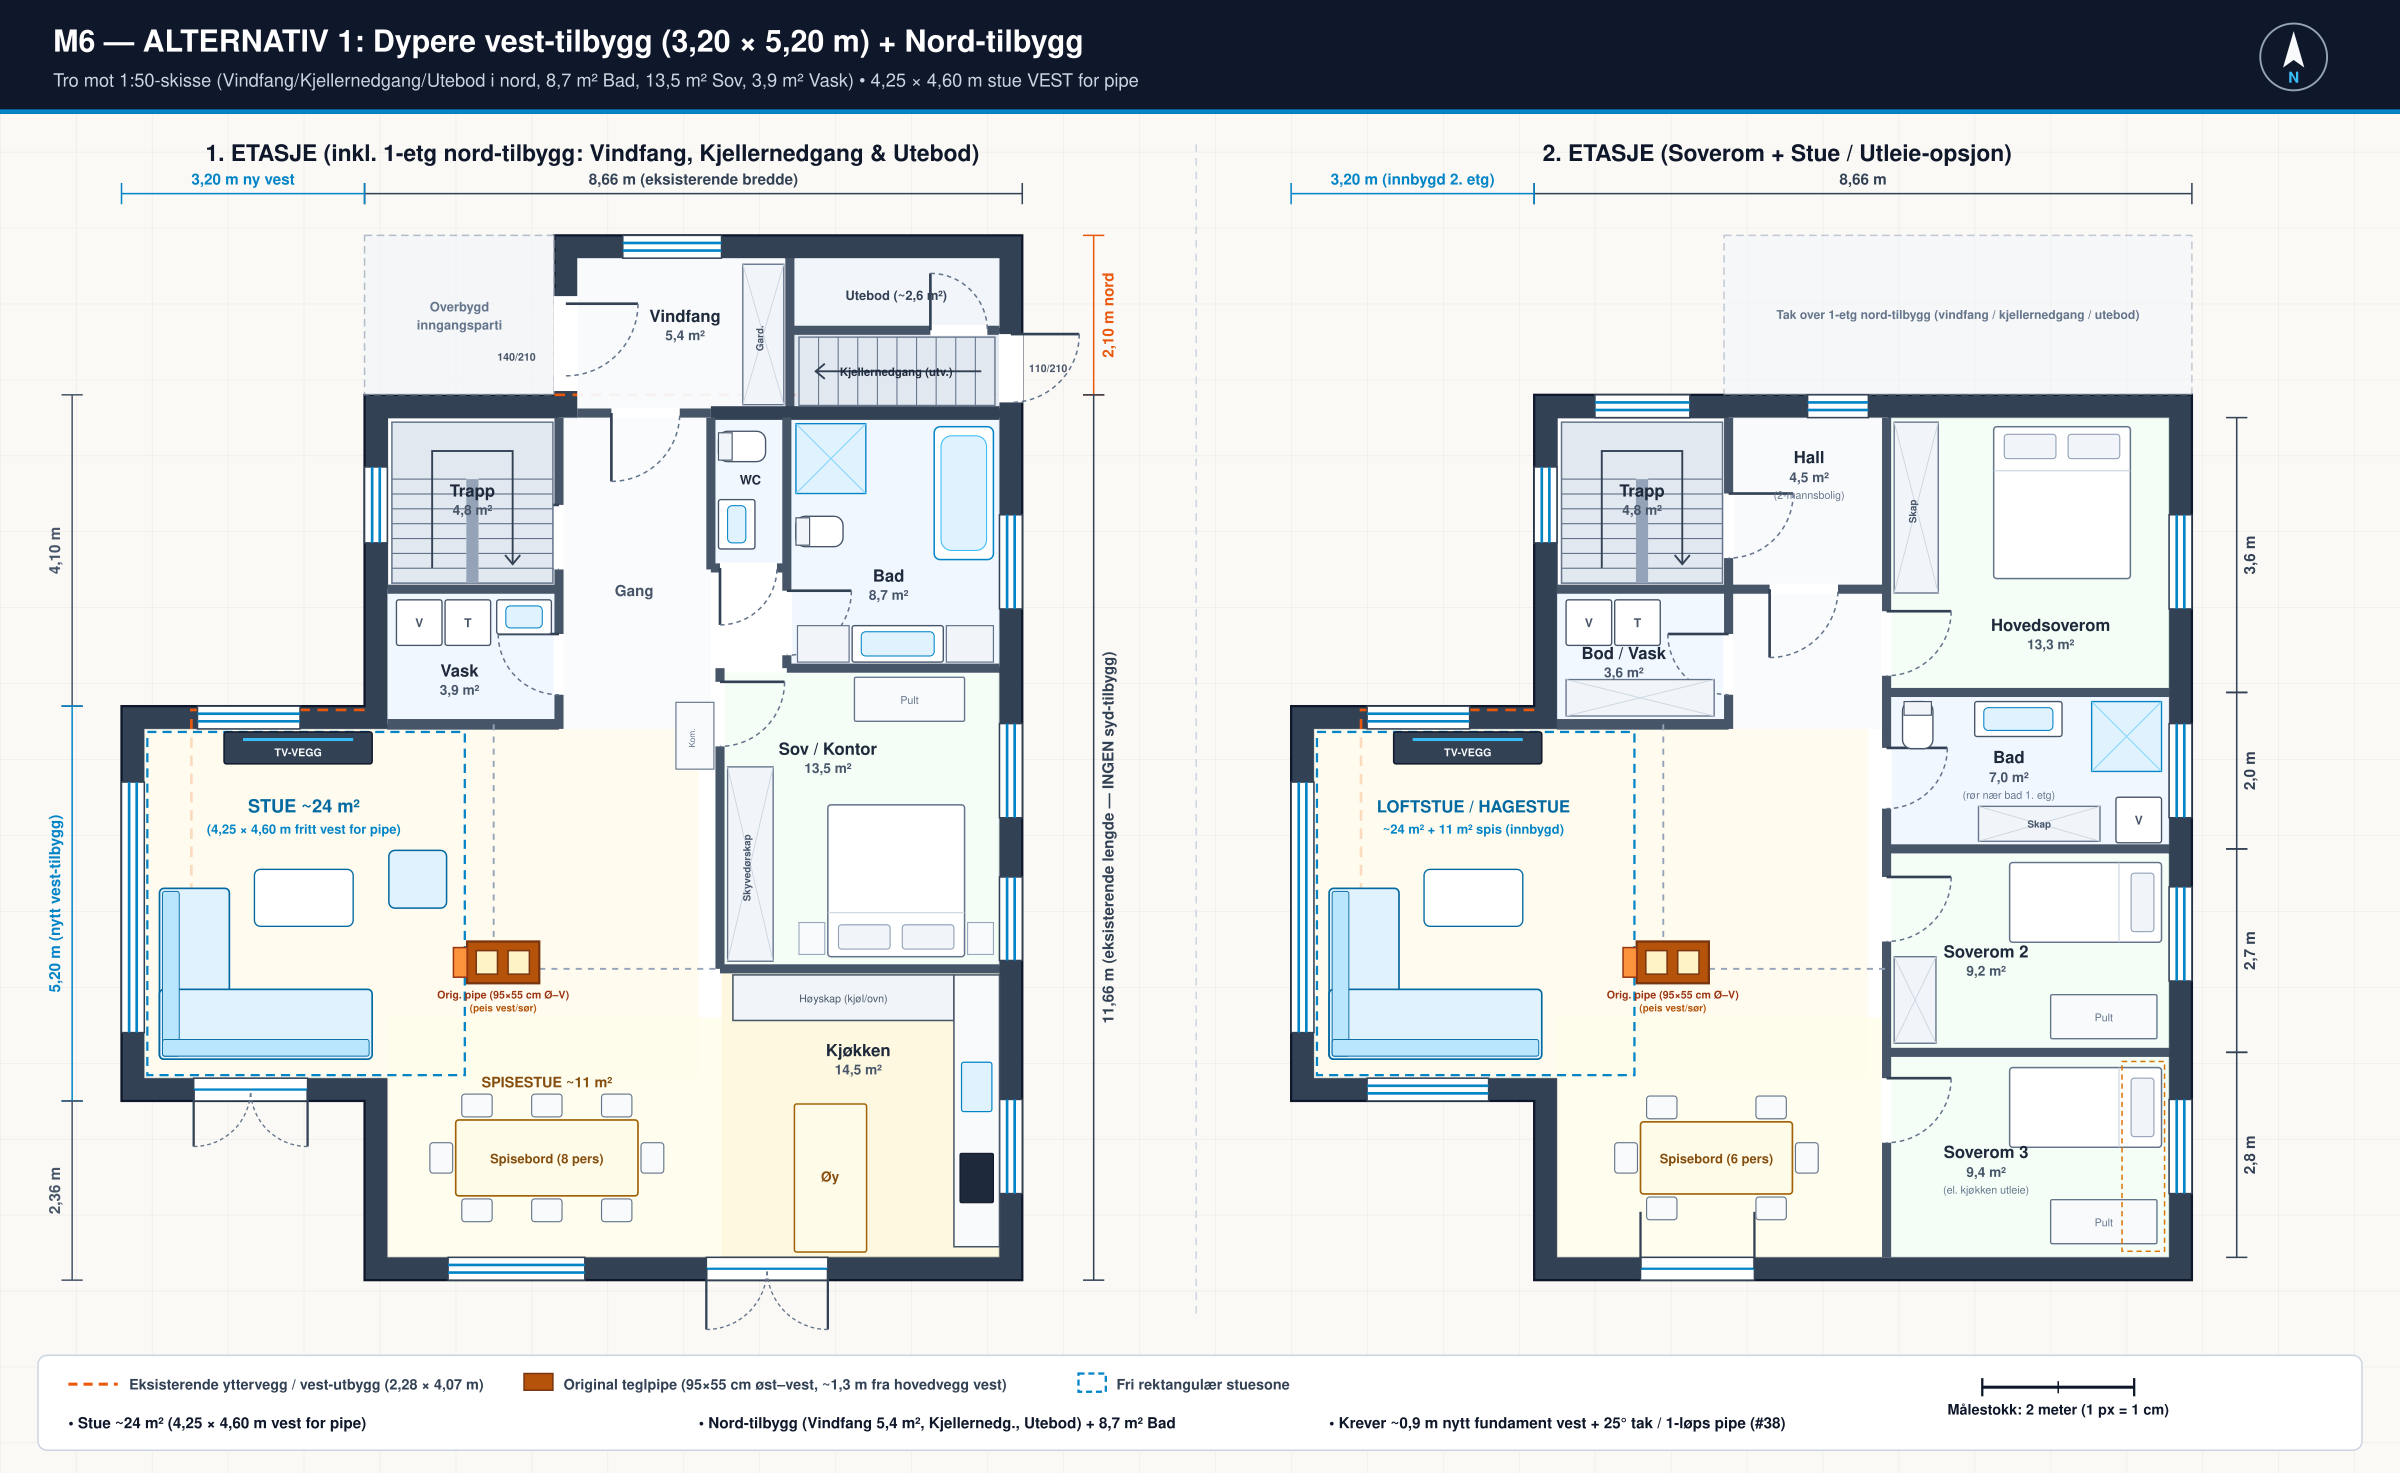
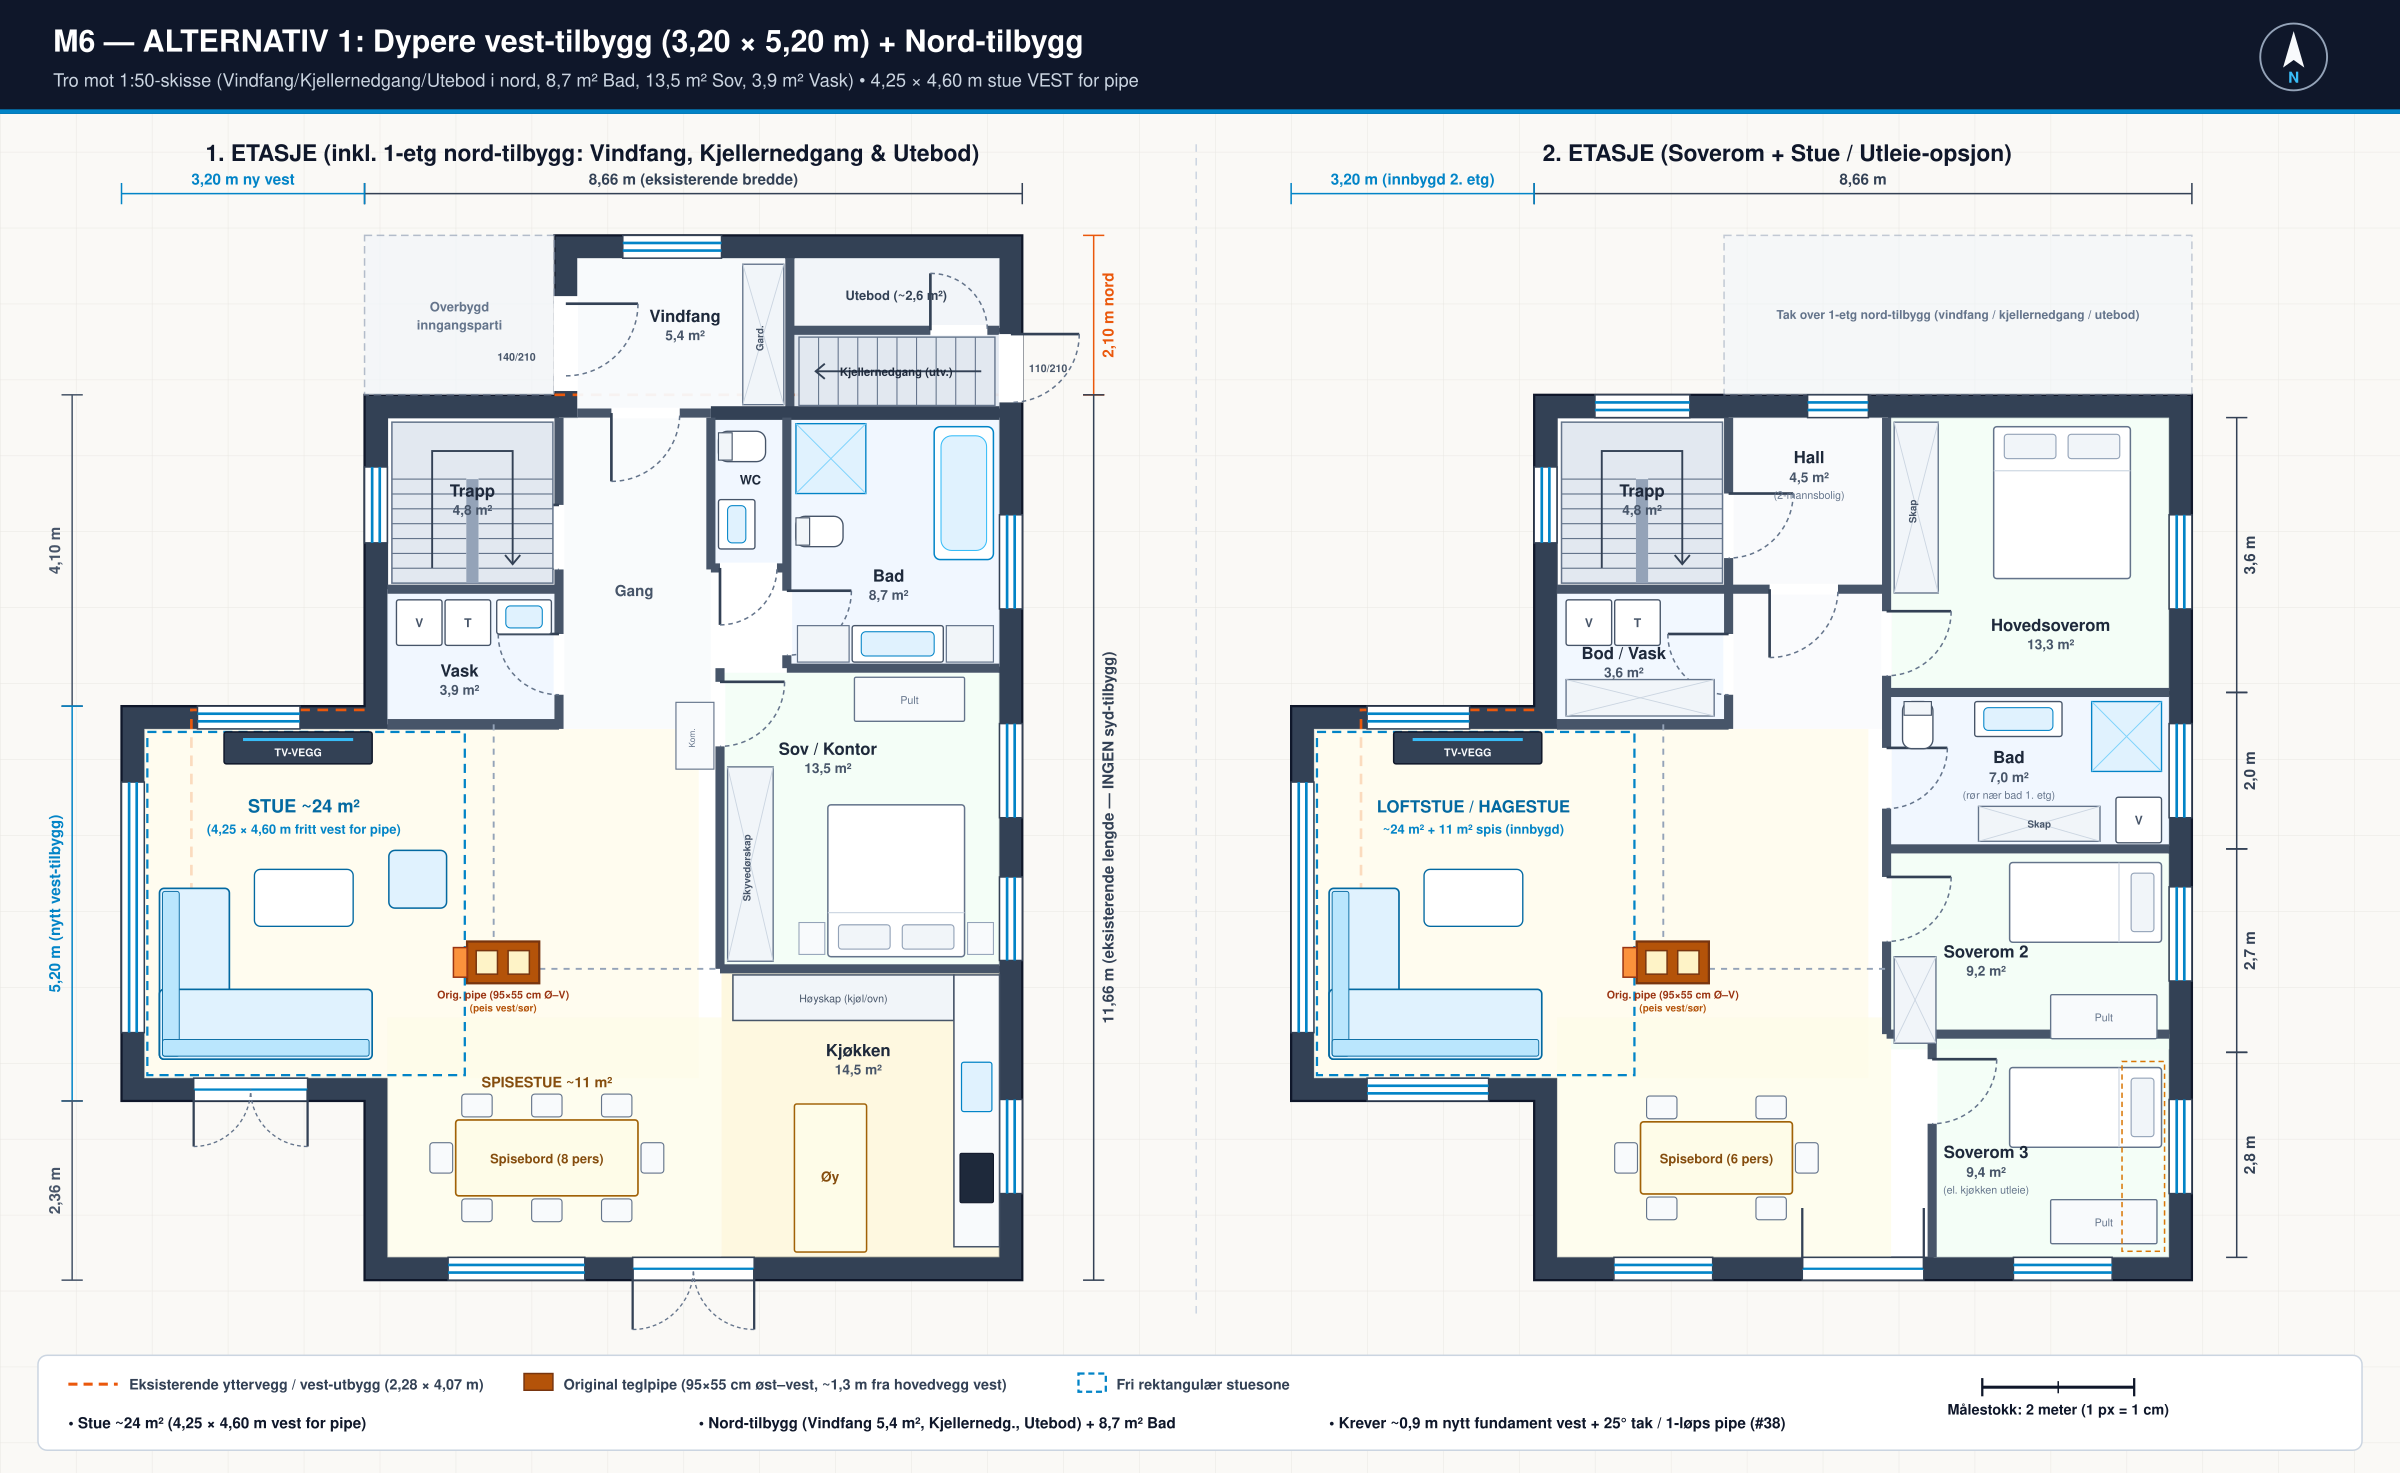
Keep existing centered south veranda doors in both 1st & 2nd floor + 3.1m Sov 3 (#50)

Changed region(s): [[0.6562, 0.687, 0.9062, 0.8744], [0.25, 0.8432, 0.3438, 0.8744], [0.8438, 0.8432, 0.875, 0.8744]]

diff --git a/scripts/generate_vest_alternativer.py b/scripts/generate_vest_alternativer.py
@@ -439,8 +439,8 @@ def draw_shared_east_floor1(pb: PlanBuilder):
     pb.door(556, 258, 85, "v_down_right", wall_t=12)
     # Sov 90/210 door (from gang, north-west of Sov)
     pb.door(468, 378, 85, "v_down_right", wall_t=12)
-    # South terrace double door
-    pb.double_terrace_door_h(530, 1151, 160, wall_t=30, swing_down=True)
+    # South terrace double door — EXISTING centered opening (x=353..513, center=433)!
+    pb.double_terrace_door_h(433, 1151, 160, wall_t=30, swing_down=True)
 
     # Windows on east wall & north wall (4 vertical axes matching Fasade Øst!)
     pb.window_h(340, 470, -195, 30)  # Vindfang north window
@@ -496,19 +496,20 @@ def draw_shared_east_floor2(pb: PlanBuilder):
     pb.rect(470, 30, 366, 360, fill="#f0fdf4", opacity=0.75)  # Master 13.3 m²
     pb.rect(470, 396, 366, 198, fill="#eff6ff", opacity=0.85)  # Bad 6.8 m²
     pb.rect(470, 604, 366, 258, fill="#f0fdf4", opacity=0.75)  # Sov 2 (9.0 m²)
-    pb.rect(470, 872, 366, 264, fill="#f0fdf4", opacity=0.75)  # Sov 3 (9.2 m²)
+    pb.rect(526, 842, 310, 294, fill="#f0fdf4", opacity=0.75)  # Sov 3 (9.2 m² = 3.10m x 2.94m, clears centered veranda door!)
 
     # East rooms walls
-    pb.wall_v(464, 30, 1136, 12)
+    pb.wall_v(464, 30, 842, 12)
+    pb.wall_v(524, 842, 1136, 12)  # Sov 3 west wall at x=524 (3.10 m wide as sketched -> frees centered x=353..513 door!)
     pb.wall_h(464, 836, 392, 12)  # Master / Bad (3.62 m -> 13.3 m²)
     pb.wall_h(464, 836, 598, 12)  # Bad / Sov 2 (2.00 m -> ~7.1 m²)
-    pb.wall_h(464, 836, 866, 12)  # Sov 2 / Sov 3 (~2.62 m -> ~9.2 m²)
+    pb.wall_h(464, 836, 842, 12)  # Sov 2 / Sov 3 (~2.94 m -> 9.2 m²)
 
     # Doors
     pb.door(464, 285, 85, "v_down_right", wall_t=12)  # Master
     pb.door(464, 465, 80, "v_down_right", wall_t=12)  # Bad
     pb.door(464, 635, 85, "v_down_right", wall_t=12)  # Sov 2
-    pb.door(464, 900, 85, "v_down_right", wall_t=12)  # Sov 3
+    pb.door(524, 875, 85, "v_down_right", wall_t=12)  # Sov 3
 
     # East & north windows (4 clean vertical axes matching 1. etg & Fasade Øst!)
     pb.window_v(851, 158, 282, 30)   # Axis 4: Master east
@@ -631,10 +632,13 @@ def build_alt1_floor2(pb: PlanBuilder):
     pb.door(310, 256, 90, "h_right_down", wall_t=12)
     pb.door(256, 315, 80, "v_down_left", wall_t=12)
 
+    # South windows + EXISTING centered veranda door (x=353..513) in 2. etg!
     pb.window_v(-305, 510, 840, 30)
     pb.window_h(-220, -60, 915, 30)
     pb.window_h(-220, -85, 425, 30)  # Dobbeltvindu nord på vest-tilbygg (2. etg)
-    pb.double_terrace_door_h(215, 1151, 150, wall_t=30, swing_down=False)  # Eksist. verandadør 2. etg sør (fransk balkong / evt. syd-balkong!)
+    pb.window_h(105, 235, 1151, 30)  # Flanking south window west (Opphold 2. etg)
+    pb.double_terrace_door_h(433, 1151, 160, wall_t=30, swing_down=False)  # Eksist. sentrert verandadør 2. etg sør!
+    pb.window_h(631, 761, 1151, 30)  # Flanking south window east (Sov 3)
     pb.window_v(15, 95, 195, 30)
 
     pb.stairs_u(36, 36, 212, 212)

diff --git a/scripts/generate_fasader_alle4.py b/scripts/generate_fasader_alle4.py
@@ -283,19 +283,22 @@ def draw_south(d: ElevDraw):
     d.rect(0, -40, 866, 40, fill="#64748b", stroke="#334155", sw=1.5)
     d.poly([(-35, -588), (433, -906), (901, -588), (885, -578), (433, -885), (-19, -578)], fill="#1e293b", stroke="#0f172a", sw=2)
 
-    # South gable windows & veranda doors (kors-sprosser!)
-    d.kors_win(135, -248, 145, 145, single=False)   # Spisestue 1. etg
-    d.french_door_kors(465, -250, 160, 210)         # Terrassedør fra kjøkken/allrom 1. etg
-    # 2. etg existing south veranda door (in Opphold 2. etg) w/ French balcony railing (ready for future balcony!)
-    d.french_door_kors(135, -530, 150, 208)
+    # South gable — 100% SYMMETRIC around EXISTING centered veranda door openings (x=353..513, center=433)!
+    # 1. etg: flanking kors-sprosse (Spisestue) + EXISTING centered veranda door + flanking kors-sprosse (Kjøkken)
+    d.kors_win(105, -248, 130, 145, single=False)   # Spisestue 1. etg (symmetrisk venstre)
+    d.french_door_kors(353, -250, 160, 210)         # Eksist. sentrert terrassedør 1. etg (x=353..513)
+    d.kors_win(631, -248, 130, 145, single=False)   # Kjøkken 1. etg (symmetrisk høyre)
+    # 2. etg: flanking kors-sprosse + EXISTING centered veranda door (Opphold 2.etg, vest for Sov 3 ved x=526!) + flanking kors-sprosse (Sov 3)
+    d.kors_win(105, -528, 130, 145, single=False)   # Opphold 2. etg (symmetrisk venstre)
+    d.french_door_kors(353, -530, 160, 208)         # Eksist. sentrert verandadør 2. etg (rett over 1. etg!)
     # Subtle matte-black wrought-iron French balcony railing (TEK17 fall protection until balcony is added)
-    d.rect(128, -422, 164, 6, fill="#1e293b")
-    d.rect(128, -326, 164, 5, fill="#1e293b")
-    for rx in range(138, 288, 16):
+    d.rect(346, -422, 174, 6, fill="#1e293b")
+    d.rect(346, -326, 174, 5, fill="#1e293b")
+    for rx in range(356, 516, 16):
         d.line(rx, -416, rx, -326, stroke="#1e293b", sw=1.8)
-    d.text(210, -545, "Verandadør 2.etg (fransk rekkv. / evt. balkong)", size=10, weight="700", fill="#475569")
-    d.kors_win(575, -528, 145, 145, single=False)   # Sov 3 (2. etg)
-    d.kors_win(375, -768, 116, 115, single=False)   # Loft gavl (220 cm takhøyde)
+    d.text(433, -545, "Eksist. verandadør 2.etg (fransk rekkv. / evt. balkong)", size=10, weight="700", fill="#475569")
+    d.kors_win(631, -528, 130, 145, single=False)   # Sov 3 (2. etg, bredde 3,1 m)
+    d.kors_win(375, -768, 116, 115, single=False)   # Loft gavl (sentrert rett over dørene!)
 
     # Timber terrace deck extending around SW corner to west-wing veranda door!
     d.rect(-280, -24, 1180, 24, fill="#d97706", opacity=0.4, stroke="#92400e", sw=1.8)

diff --git a/scripts/generate_3d_perspektiv_eksakt.py b/scripts/generate_3d_perspektiv_eksakt.py
@@ -234,17 +234,19 @@ def build_house_3d(cam: Camera3D, west_d: float, y_s: float, y_n: float, wing_de
         sc.add_kors_window_west(0, 805, 875, 115, 245, single=True, layer=2)  # Vask 1st
         sc.add_kors_window_west(0, 805, 875, 395, 525, single=True, layer=2)  # Bod 2nd
 
-    # Main South Gable windows & veranda doors (1st terrace door + 2nd existing veranda door w/ French railing!)
-    sc.add_kors_window_south(0, 130, 275, 105, 250, layer=2)                # Dining 1st
-    sc.add_kors_window_south(0, 465, 625, 42, 252, is_door=True, layer=2)   # Terrace door 1st
-    sc.add_kors_window_south(0, 130, 280, 322, 532, is_door=True, layer=2)  # 2nd floor veranda door (Opphold)!
-    # Subtle matte-black French balcony railing on 2nd floor south veranda door (ready for future south balcony)
-    sc.add_line((124, -6, 425), (286, -6, 425), stroke="#0f172a", sw=2.6, layer=3, depth_bias=-12.0)
-    sc.add_line((124, -6, 326), (286, -6, 326), stroke="#0f172a", sw=2.0, layer=3, depth_bias=-12.0)
-    for rx in range(134, 282, 22):
+    # Main South Gable — 100% SYMMETRIC around EXISTING centered veranda doors (x=353..513 in BOTH 1st & 2nd floor!)
+    sc.add_kors_window_south(0, 105, 235, 105, 250, layer=2)                # Dining 1st (left)
+    sc.add_kors_window_south(0, 353, 513, 42, 252, is_door=True, layer=2)   # EXISTING centered veranda door 1st!
+    sc.add_kors_window_south(0, 631, 761, 105, 250, layer=2)                # Kitchen 1st (right)
+    sc.add_kors_window_south(0, 105, 235, 385, 530, layer=2)                # Opphold 2nd (left)
+    sc.add_kors_window_south(0, 353, 513, 322, 532, is_door=True, layer=2)  # EXISTING centered veranda door 2nd!
+    # Subtle matte-black French balcony railing on centered 2nd-floor south veranda door
+    sc.add_line((346, -6, 425), (520, -6, 425), stroke="#0f172a", sw=2.6, layer=3, depth_bias=-12.0)
+    sc.add_line((346, -6, 326), (520, -6, 326), stroke="#0f172a", sw=2.0, layer=3, depth_bias=-12.0)
+    for rx in range(356, 516, 22):
         sc.add_line((rx, -6, 326), (rx, -6, 425), stroke="#1e293b", sw=1.4, layer=3, depth_bias=-12.0)
-    sc.add_kors_window_south(0, 575, 720, 385, 530, layer=2)                # Sov 3 2nd
-    sc.add_kors_window_south(0, 375, 491, 655, 770, layer=2)                # Loft gable
+    sc.add_kors_window_south(0, 631, 761, 385, 530, layer=2)                # Sov 3 2nd (right, 3.1m wide)
+    sc.add_kors_window_south(0, 375, 491, 655, 770, layer=2)                # Loft gable (centered!)
 
     # --- MAIN WEST ROOF SLOPE (with 35 cm overhang) ---
     ov_x = -35.0

diff --git a/scripts/generate_all4_3d_refs.py b/scripts/generate_all4_3d_refs.py
@@ -161,17 +161,19 @@ def build_se_ref():
     sc.add_poly([(548.5, 1166, nz_ridge), (548.5, 1396, nz_ridge), (892, 1396, nz_eaves - 26 * t_main), (892, 1166, nz_eaves - 26 * t_main)],
                 "#1e293b", stroke="#0f172a", sw=1.8, layer=3)
 
-    # Main SOUTH GABLE (Y=0, X=0..866) w/ 1st floor terrace door + 2nd floor veranda door (French railing)
+    # Main SOUTH GABLE (Y=0, X=0..866) — 100% SYMMETRIC around EXISTING centered veranda doors (x=353..513 in 1st & 2nd)!
     sc.add_poly([(0, 0, 0), (866, 0, 0), (866, 0, 40), (0, 0, 40)], "#64748b", layer=3)
     sc.add_poly([(0, 0, 40), (866, 0, 40), (866, 0, z_eaves), (433, 0, z_ridge), (0, 0, z_eaves)], "#ffffff", stroke="#1e293b", sw=2.0, layer=3)
-    sc.add_kors_window_south(0, 130, 275, 105, 250, layer=4)
-    sc.add_kors_window_south(0, 465, 625, 42, 252, is_door=True, layer=4)
-    sc.add_kors_window_south(0, 130, 280, 322, 532, is_door=True, layer=4)
-    sc.add_line((124, -6, 425), (286, -6, 425), stroke="#0f172a", sw=2.4, layer=5, depth_bias=-12.0)
-    sc.add_line((124, -6, 326), (286, -6, 326), stroke="#0f172a", sw=1.8, layer=5, depth_bias=-12.0)
-    for rx in range(134, 282, 24):
+    sc.add_kors_window_south(0, 105, 235, 105, 250, layer=4)
+    sc.add_kors_window_south(0, 353, 513, 42, 252, is_door=True, layer=4)
+    sc.add_kors_window_south(0, 631, 761, 105, 250, layer=4)
+    sc.add_kors_window_south(0, 105, 235, 385, 530, layer=4)
+    sc.add_kors_window_south(0, 353, 513, 322, 532, is_door=True, layer=4)
+    sc.add_line((346, -6, 425), (520, -6, 425), stroke="#0f172a", sw=2.4, layer=5, depth_bias=-12.0)
+    sc.add_line((346, -6, 326), (520, -6, 326), stroke="#0f172a", sw=1.8, layer=5, depth_bias=-12.0)
+    for rx in range(356, 516, 24):
         sc.add_line((rx, -6, 326), (rx, -6, 425), stroke="#1e293b", sw=1.3, layer=5, depth_bias=-12.0)
-    sc.add_kors_window_south(0, 575, 720, 385, 530, layer=4)
+    sc.add_kors_window_south(0, 631, 761, 385, 530, layer=4)
     sc.add_kors_window_south(0, 375, 491, 655, 770, layer=4)
 
     # Main EAST WALL (X=866, Y=0..1166)

diff --git a/docs/ARKITEKTBRIEF_M6_REV2.md b/docs/ARKITEKTBRIEF_M6_REV2.md
@@ -70,8 +70,8 @@ Eksisterende vest-utbygg (`2,28 × 4,07 m`) **rives helt** for enkel tilgang til
 * **Østfasade:** 4 stramme, symmetriske vertikale vindusakser (`Bad/Hovedsov`, `Sov Pult/Bad`, `Sov sør/Sov 2`, `Kjøkken/Sov 3`) + **4 takvinduer linjert rett over fasadevinduene**.
 * **Nordfasade:** Parallelt `32,7°` saltak på nord-tilbygg (smalt bodvindu + dobbelt vindfangvindu + portico m/ rekkverk), smalt trappevindu 1. etg + dobbelt 2. etg vindu til høyre, ingen nordvindu på hovedsoverom, sentrert loftsvindu, samt 1. og 2. etg dobbeltvinduer på nordsiden av vest-tilbygget.
 * **Sørgavl & Vest-tverrfløy (verandadører):**
-  * **1. etg:** Dobbel sprosset terrassedør på sørgavlen fra kjøkken/allrom **+ dobbel sprosset verandadør på sørveggen av vest-tverrfløyen** (bevarer fri vestvegg til L-sofa inne og åpner rett ut til en lun, vindskjermet L-formet markterrasse rundt sørvest-hjørnet).
-  * **2. etg:** Eksisterende **verandadør på sørgavlen** beholdes (plassert i oppholdsrommet på sørvestsiden med fransk balkongrekkverk i fase 1, klargjort for eventuell senere syd-balkong). Sentrert loftsvindu i gavlspissen.
+  * **1. etg:** Eksisterende **sentrerte verandadør-åpning midt på sørgavlen (`x = 3,53–5,13 m`)** beholdes mellom spisestue og kjøkken **+ dobbel sprosset verandadør på sørveggen av vest-tverrfløyen (Alternativ B)** ut til en lun, L-formet markterrasse rundt sørvest-hjørnet.
+  * **2. etg:** Eksisterende **sentrerte verandadør midt på sørgavlen** beholdes rett over 1. etg (med sort fransk balkongrekkverk i fase 1, klargjort for eventuell senere syd-balkong) — `Soverom 3` er `3,10 × 2,94 m` (`9,2 m²` som på 1:50-skissen), slik at hele senteraksen ligger fritt i `Opphold 2. etg`! Symmetriske kors-sprosse flankevinduer på begge sider + sentrert loftsvindu.
 
 ---
 
